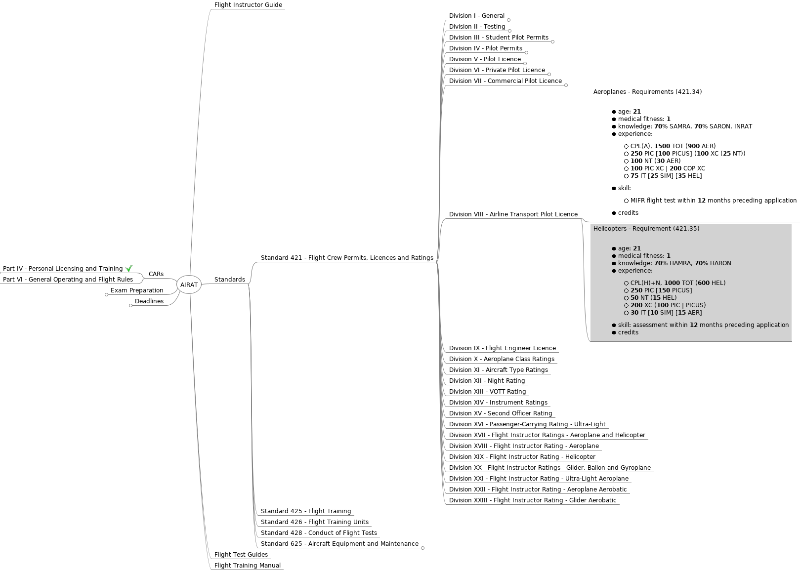
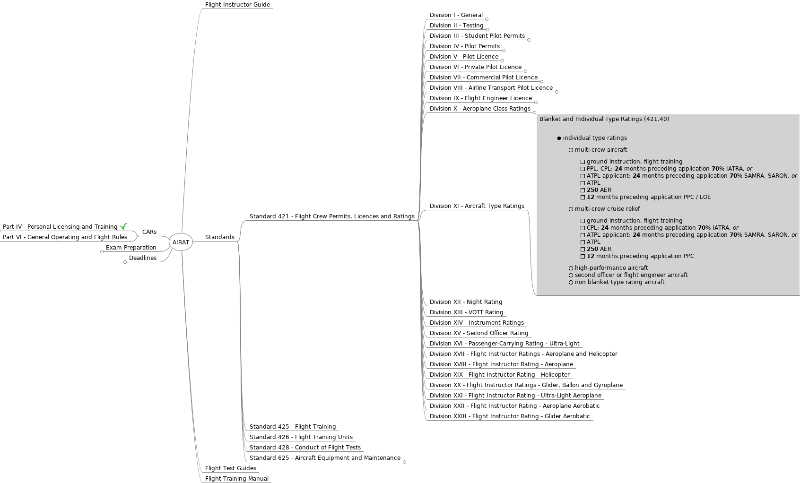
extended AIRAT mind map

diff --git a/FI/Documents/CARS/AIRAT.mm b/FI/Documents/CARS/AIRAT.mm
@@ -3193,7 +3193,7 @@
 </html></richcontent>
 </node>
 </node>
-<node CREATED="1603491881276" FOLDED="true" ID="ID_1870814399" MODIFIED="1604359970733" TEXT="Division VI - Private Pilot Licence">
+<node CREATED="1603491881276" FOLDED="true" ID="ID_1870814399" MODIFIED="1604431672891" TEXT="Division VI - Private Pilot Licence">
 <node CREATED="1603920607140" ID="ID_1385616112" MODIFIED="1604359953921">
 <richcontent TYPE="NODE"><html>
   <head>
@@ -3239,8 +3239,7 @@
       </li>
     </ul>
   </body>
-</html>
-</richcontent>
+</html></richcontent>
 </node>
 <node CREATED="1604105079826" ID="ID_956352367" MODIFIED="1604359942127">
 <richcontent TYPE="NODE"><html>
@@ -3287,11 +3286,10 @@
       </li>
     </ul>
   </body>
-</html>
-</richcontent>
+</html></richcontent>
 </node>
 </node>
-<node CREATED="1603491899955" FOLDED="true" ID="ID_1921926935" MODIFIED="1604363313804" TEXT="Division VII - Commercial Pilot Licence">
+<node CREATED="1603491899955" FOLDED="true" ID="ID_1921926935" MODIFIED="1604431680117" TEXT="Division VII - Commercial Pilot Licence">
 <node CREATED="1604105496779" ID="ID_112213341" MODIFIED="1604359916020">
 <richcontent TYPE="NODE"><html>
   <head>
@@ -3340,10 +3338,9 @@
       </li>
     </ul>
   </body>
-</html>
-</richcontent>
+</html></richcontent>
 </node>
-<node CREATED="1604359230127" ID="ID_1812918546" MODIFIED="1604363154086">
+<node CREATED="1604359230127" ID="ID_1812918546" MODIFIED="1604431648002">
 <richcontent TYPE="NODE"><html>
   <head>
     
@@ -3383,7 +3380,7 @@
                 <b>37</b>&#160;DL (<b>15</b>&#160;DL (<b>5</b>&#160;XC), <b>5</b>&#160;NT (<b>2</b>&#160;XC), <b>10</b>&#160;IT [<b>5</b>&#160;SIM])
               </li>
               <li>
-                <b>23</b>&#160;SL (<b>2</b>&#160;XC (<b>45</b>&#160;min, <b>3</b>&#160;TOL), <b>5</b>&#160;NT (<b>10</b>&#160;CIR TOL))
+                <b>23</b>&#160;SL (<b>2</b>&#160;XC (<b>45</b>&#160;min D, <b>3</b>&#160;TOL), <b>5</b>&#160;NT (<b>10</b>&#160;CIR TOL))
               </li>
             </ul>
           </li>
@@ -3398,7 +3395,7 @@
                 <b>55</b>&#160;DL (<b>5</b>&#160;XC, <b>10</b>&#160;IT [<b>5</b>&#160;SIM])
               </li>
               <li>
-                <b>35</b>&#160;SL (XC (<b>2</b>&#160;h, <b>3</b>&#160;TOL))
+                <b>35</b>&#160;SL (XC (<b>2</b>&#160;h D, <b>3</b>&#160;TOL))
               </li>
               <li>
                 restricted to <i>daylight only</i>
@@ -3419,8 +3416,8 @@
 </richcontent>
 </node>
 </node>
-<node CREATED="1603491918760" ID="ID_1219281581" MODIFIED="1603491930693" TEXT="Division VIII - Airline Transport Pilot Licence">
-<node CREATED="1604363331204" ID="ID_714911322" MODIFIED="1604364255537">
+<node CREATED="1603491918760" FOLDED="true" ID="ID_1219281581" MODIFIED="1604431598691" TEXT="Division VIII - Airline Transport Pilot Licence">
+<node CREATED="1604363331204" ID="ID_714911322" MODIFIED="1604431177577">
 <richcontent TYPE="NODE"><html>
   <head>
     
@@ -3447,7 +3444,7 @@
 
         <ul>
           <li>
-            CPL(A), <b>1500</b>&#160;TOT (<b>900</b>&#160;AER)
+            CPL(A), <b>1500</b>&#160;TT (<b>900</b>&#160;AER)
           </li>
           <li>
             <b>250</b>&#160;PIC [<b>100</b>&#160;PICUS] (<b>100</b>&#160;XC (<b>25</b>&#160;NT))
@@ -3480,7 +3477,7 @@
 </html>
 </richcontent>
 </node>
-<node CREATED="1604363371165" ID="ID_1045410600" MODIFIED="1604364731878">
+<node CREATED="1604363371165" ID="ID_1045410600" MODIFIED="1604431189019">
 <richcontent TYPE="NODE"><html>
   <head>
     
@@ -3507,7 +3504,7 @@
 
         <ul>
           <li>
-            CPL(H)+N, <b>1000</b>&#160;TOT (<b>600</b>&#160;HEL)
+            CPL(H)+N, <b>1000</b>&#160;TT (<b>600</b>&#160;HEL)
           </li>
           <li>
             <b>250</b>&#160;PIC [<b>150</b>&#160;PICUS]
@@ -3535,9 +3532,195 @@
 </richcontent>
 </node>
 </node>
-<node CREATED="1603491940358" ID="ID_481560815" MODIFIED="1603491952574" TEXT="Division IX - Flight Engineer Licence"/>
-<node CREATED="1603491961218" ID="ID_1335948724" MODIFIED="1603491969251" TEXT="Division X - Aeroplane Class Ratings"/>
-<node CREATED="1603491980063" ID="ID_1680839003" MODIFIED="1603491989946" TEXT="Division XI - Aircraft Type Ratings"/>
+<node CREATED="1603491940358" FOLDED="true" ID="ID_481560815" MODIFIED="1604431589785" TEXT="Division IX - Flight Engineer Licence">
+<node CREATED="1604430063908" ID="ID_46703484" MODIFIED="1604430882207">
+<richcontent TYPE="NODE"><html>
+  <head>
+    
+  </head>
+  <body>
+    <p>
+      Requirements (421.37)
+    </p>
+    <p>
+      
+    </p>
+    <ul>
+      <li>
+        age: <b>18</b>
+      </li>
+      <li>
+        medical fitness: <b>1</b>
+      </li>
+      <li>
+        knowledge: approved flight engineer course, <b>60</b>% FLENG
+      </li>
+      <li>
+        experience:
+
+        <ul>
+          <li>
+            <b>100</b>&#160;FEUS [<b>50</b>&#160;SIM]
+          </li>
+          <li>
+            CPL or higher: <b>50</b>&#160;FEUS [<b>25</b>&#160;SIM]
+          </li>
+        </ul>
+      </li>
+      <li>
+        skill: letter of certification within <b>12</b>&#160;months preceding application
+      </li>
+      <li>
+        credits
+      </li>
+    </ul>
+  </body>
+</html>
+</richcontent>
+</node>
+</node>
+<node CREATED="1603491961218" FOLDED="true" ID="ID_1335948724" MODIFIED="1604431686958" TEXT="Division X - Aeroplane Class Ratings">
+<node CREATED="1604430967860" ID="ID_1806071232" MODIFIED="1604431575279">
+<richcontent TYPE="NODE"><html>
+  <head>
+    
+  </head>
+  <body>
+    <p>
+      Requirements (421.38)
+    </p>
+    <p>
+      
+    </p>
+    <ul>
+      <li>
+        Seaplane Rating
+
+        <ul>
+          <li>
+            <b>7</b>&#160;TT (<b>5</b>&#160;DL, <b>5</b>&#160;SLTOL)
+          </li>
+          <li>
+            qualification flight within <b>12</b>&#160;months preceding application
+          </li>
+        </ul>
+      </li>
+      <li>
+        Landplane Rating
+
+        <ul>
+          <li>
+            <b>3</b>&#160;TT (<b>2</b>&#160;DL, <b>5</b>&#160;SLTOL)
+          </li>
+        </ul>
+      </li>
+      <li>
+        Multi-Engine Rating
+
+        <ul>
+          <li>
+            flight test (standard 428)
+          </li>
+        </ul>
+      </li>
+      <li>
+        Multi-Engine CLT Rating
+
+        <ul>
+          <li>
+            flight test (standard 428)
+          </li>
+        </ul>
+      </li>
+    </ul>
+  </body>
+</html>
+</richcontent>
+</node>
+</node>
+<node CREATED="1603491980063" ID="ID_1680839003" MODIFIED="1603491989946" TEXT="Division XI - Aircraft Type Ratings">
+<node CREATED="1604431751854" ID="ID_552563481" MODIFIED="1604445959901">
+<richcontent TYPE="NODE"><html>
+  <head>
+    
+  </head>
+  <body>
+    <p>
+      Blanket and Individual Type Ratings (421.40)
+    </p>
+    <p>
+      
+    </p>
+    <ul>
+      <li>
+        individual type ratings
+
+        <ul>
+          <li>
+            multi-crew aircraft
+
+            <ul>
+              <li>
+                ground instruction, flight training
+              </li>
+              <li>
+                PPL, CPL: <b>24 </b>months preceding application <b>70</b>% IATRA, <i>or</i>
+              </li>
+              <li>
+                ATPL applicant: <b>24</b>&#160;months preceding application <b>70</b>% SAMRA, SARON, <i>or</i>
+              </li>
+              <li>
+                ATPL
+              </li>
+              <li>
+                <b>250</b>&#160;AER
+              </li>
+              <li>
+                <b>12</b>&#160;months preceding application PPC / LOE
+              </li>
+            </ul>
+          </li>
+          <li>
+            multi-crew cruise relief
+
+            <ul>
+              <li>
+                ground instruction, flight training
+              </li>
+              <li>
+                CPL: <b>24</b>&#160;months preceding application <b>70</b>% IATRA, <i>or</i>
+              </li>
+              <li>
+                ATPL applicant: <b>24</b>&#160;months preceding application <b>70</b>% SAMRA, SARON, <i>or</i>
+              </li>
+              <li>
+                ATPL
+              </li>
+              <li>
+                <b>250</b>&#160;AER
+              </li>
+              <li>
+                <b>12</b>&#160;months preceding application PPC
+              </li>
+            </ul>
+          </li>
+          <li>
+            high-performance aircraft
+          </li>
+          <li>
+            second officer or flight engineer aircraft
+          </li>
+          <li>
+            non blanket type rating aircraft
+          </li>
+        </ul>
+      </li>
+    </ul>
+  </body>
+</html>
+</richcontent>
+</node>
+</node>
 <node CREATED="1603491999071" ID="ID_1354967365" MODIFIED="1603492013716" TEXT="Division XII - Night Rating"/>
 <node CREATED="1603492033296" ID="ID_875617576" MODIFIED="1603492048759" TEXT="Division XIII - VOTT Rating"/>
 <node CREATED="1603492054408" ID="ID_1386588732" MODIFIED="1603492068867" TEXT="Division XIV - Instrument Ratings"/>
